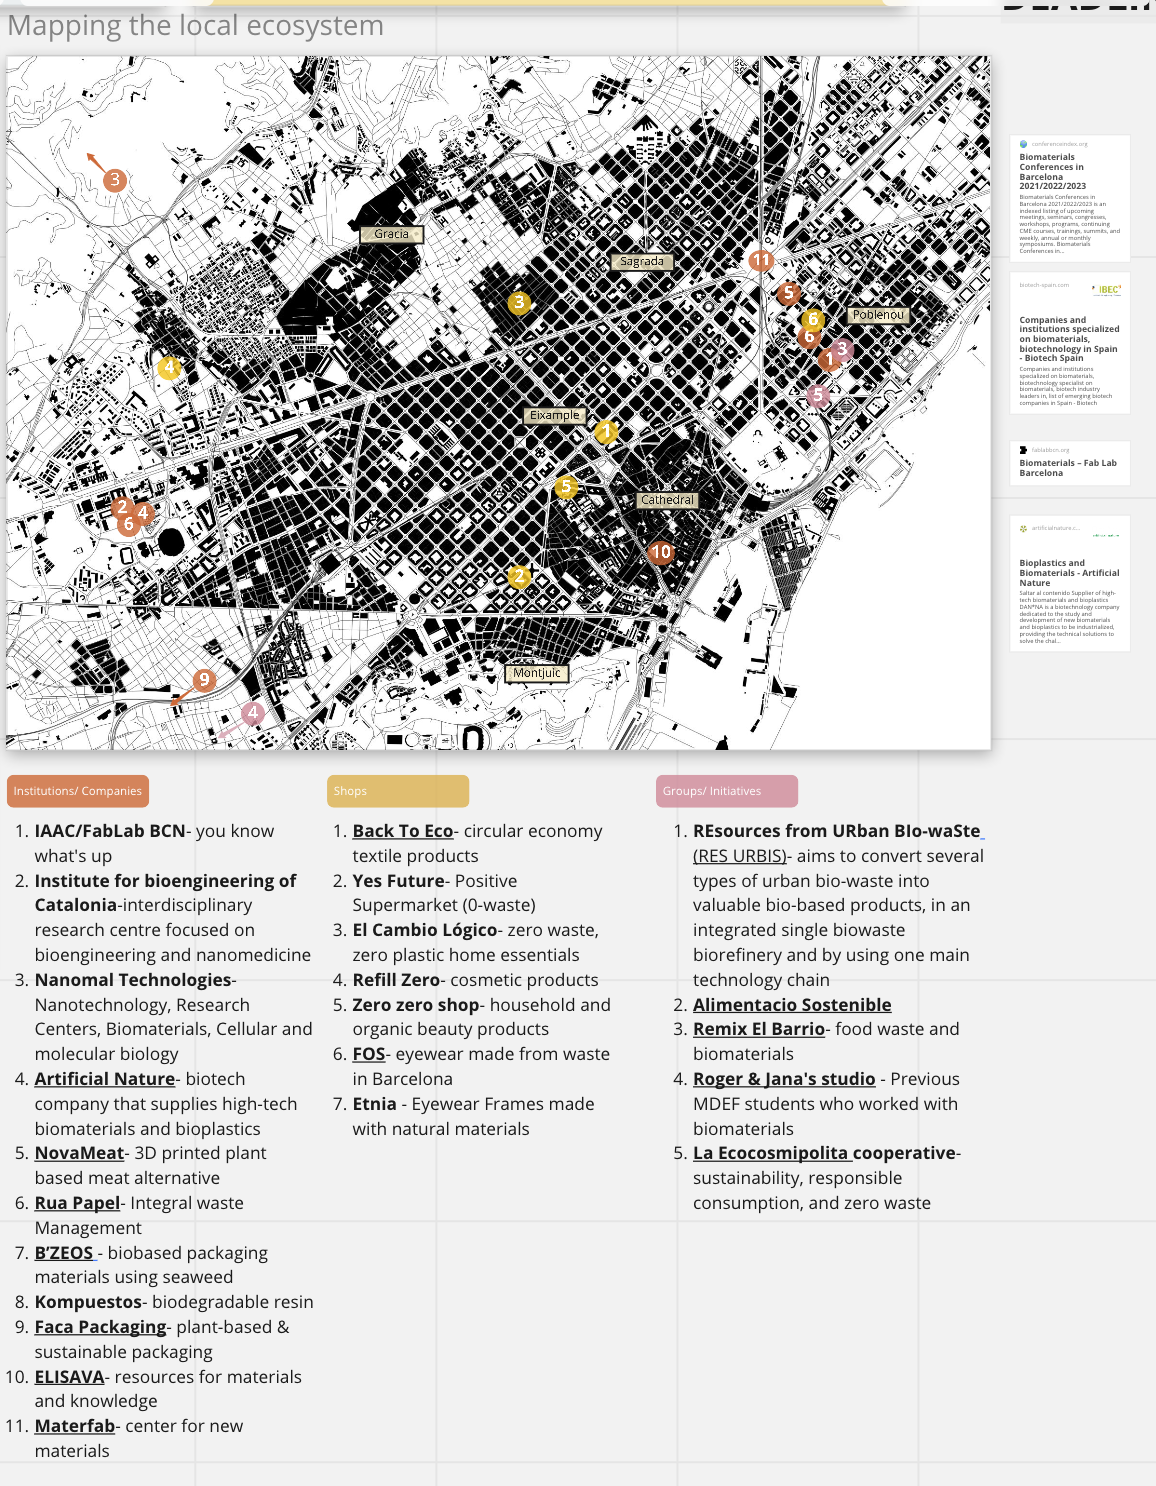
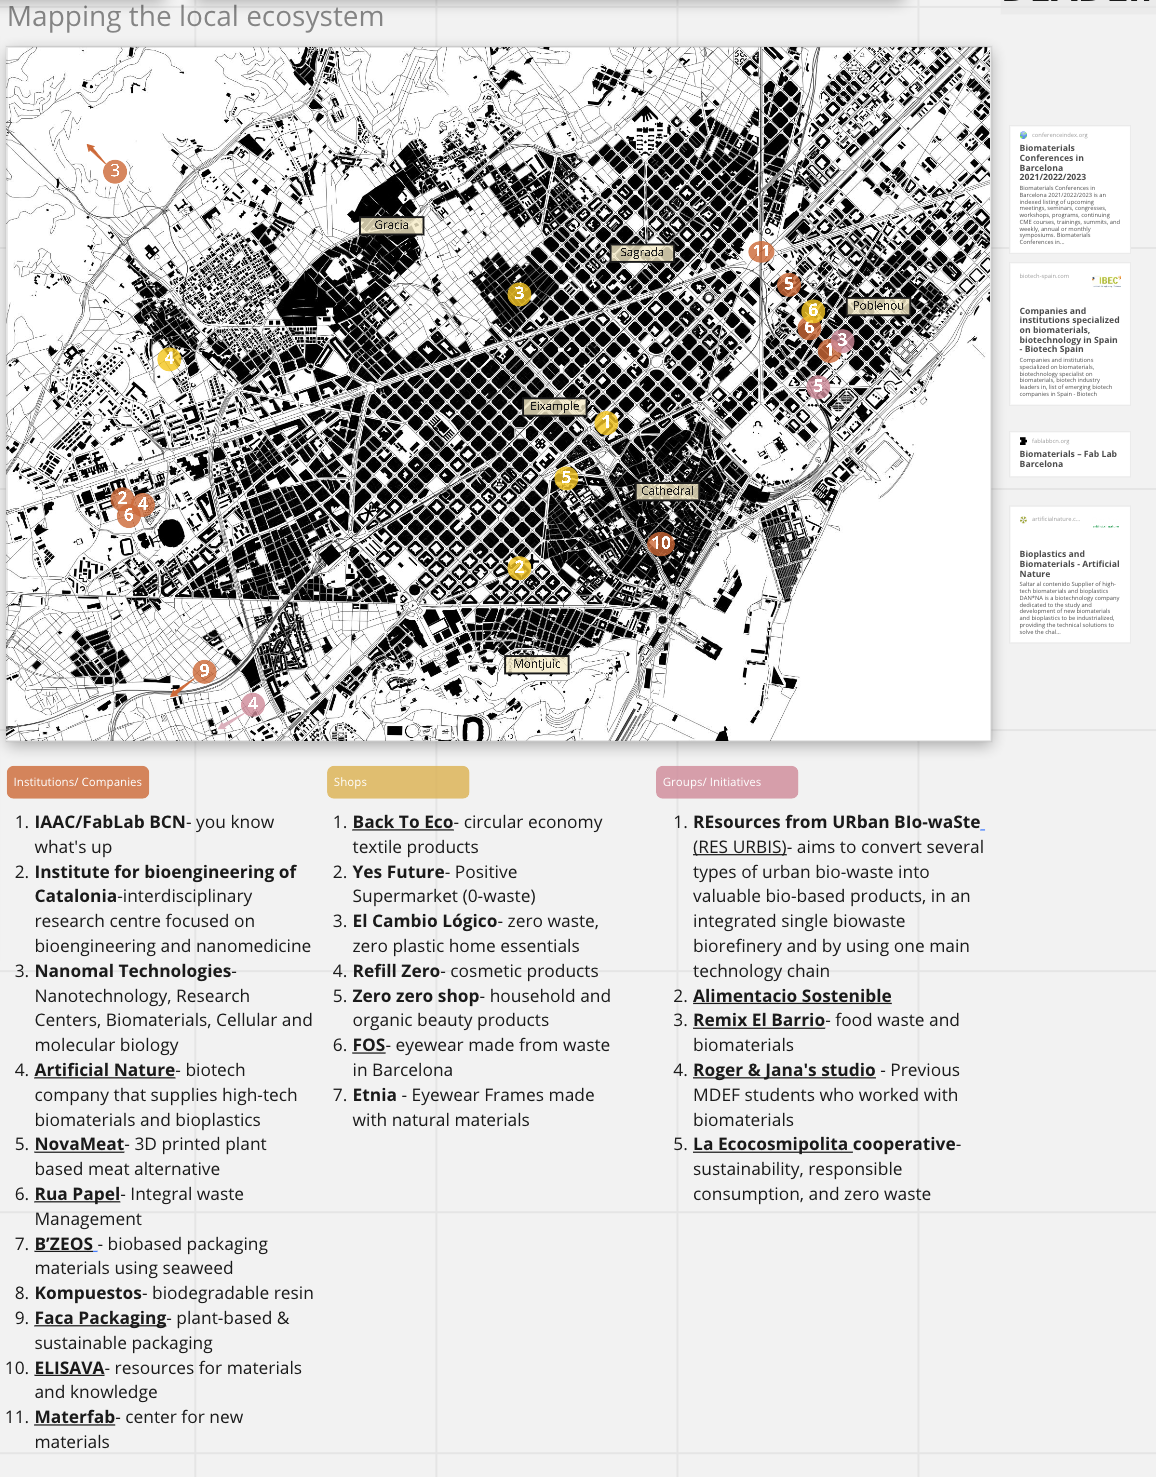
week 7

Changed region(s): [[0.0, 0.0, 0.9654, 0.9655], [0.872, 0.3737, 0.9654, 0.436]]

diff --git a/weekly_reflections/week7.html b/weekly_reflections/week7.html
@@ -32,18 +32,134 @@
 
 <body>
     <h3>WEEK 7</h3>
+    <p>Community Engagement</p>
+
+<div class="grid">
+  <div class="title">
+    <h6>
+    This week, we were introduced to two professors who form a collective called Holon, focused on transition design. We discussed the importance of shifting our perspectives as designers from people who try to solve issues as fast as possible to people who try to understand issues as best as possible. This shift in mindset was revolutionary to me, because it highlighted how just because we may try to solve a problem, it might not mean we can solve it properly.
+
+<br></br>
+
+    We talked about different theories of change, and layers on which we can act: the iceberg model highlights these layers which vary in depth, from events, to patterns, to underlying structures and mental models. The deeper we go, the bigger influence we can make, but also the more complex and interconnected the issues are.
+
+<br></br>
+
+    Before beginning this course, we had been told to divide in groups and design an intervention with a time limit of just a few weeks. This definitely shaped our mindset towards the course contents, and maybe occasionally we got ahead of ourselves.
+<br></br>
+
+    My group consists of me, Pippa & Marina, and we are naming our design intervention <i>A Case For Waste</i>. Our fight can be summed up as “Tackling the problem of individual waste.” We choose to approach the topic from a biomaterial and creative recycling perspective, by experimenting with the knowledge we are gaining in this field. We noticed that when it comes to the topic of waste, there are two conflicting approaches: do we want to work with new materials that can easily biodegrade, minimising the waste we produce? Or do we want to add value to existing waste material (such as plastic, aluminum or unsustainable mixed products) by recycling, upcycling or sustainably degrading it? We have defined these two categories as “New Materials” and “Existing Materials”, respectively.
+</h6>
+
+    <img src="../images/week7/conflict.png" alt="conflict" style="width:100%">
+      <figcaption>New materials versus Existing materials</figcaption>
+
+<h6>
+
+    Upon bouncing back and forth various ideas, we decided we wanted to host a workshop on biomaterials in which we would invite participants to create sculptures and objects with new materials, using old materials to mold them. This way, they can both generate new, more sustainable objects, whilst repurposing their old, previously valueless objects.
+
+<br></br>
+
+    Although we already had all these ideas, we had to take a few steps back and understand the frameworks surrounding the topic of biomaterials. We were asked to look at the bigger picture of our topics. We engaged in various exercises, such as mapping the local ecosystem, understanding our personal “iceberg”, coming up with ideas within our topic but beyond our reach, and positioning ourselves within this specific context.
+
+<br></br>
+
+    So, instead of jumping head first into our problem-solving, we created a collaborative <a href="https://miro.com/welcomeonboard/ZFJKSXdxR0VZckVwZ2VaQVpjT2tTMmtodWNjYVZNSW1WWUZhTXhVcWxjSFZWSlQ4V2FwVTY2M3hLRjI1aFRDdHwzMDc0NDU3MzY1NzI5MDM3MTk3?invite_link_id=398537006066" target="_blank">Miro board</a> in which we worked on the various exercises and assignments. Below you will find almost all of them, and by clicking on the link you will have access to the complete board.
 
 
-<paragraph>
-<p> <br>There's nothing here yet! Come back in a few weeks.
-</br>
-<br>
-</br>
-<br>
-</br>
-<br>
-</br>
- </p2>
+</h6>
+
+<img src="../images/week7/board_overview.png" alt="board overview" style="width:100%">
+<figcaption>An overview of our Miro </figcaption>
+
+
+<br></br>
+<img src="../images/week7/iceberg.png" alt="iceberg diagram" style="width:100%">
+<figcaption>The iceberg model for biomaterials</figcaption>
+
+<h6>
+
+</div>
+
+<div class="sidebar">
+<h6>
+  An overview of institutions, shops, groups and initiatives around Barcelona who work with biomaterials.
+<br></br>
+  By mapping out the local ecosystem, we managed to form a  web of resources and people we could talk to or collaborate with in future projects. It also allowed us to understand the field better, and the context, limits and design opportunities regarding each entity.
+<br></br>
+  By understanding all of this, it made it easier for ourselves to be positioned within the Biomaterial community and figure out exactly what we could do to make an impact.
+
+</div>
+
+<div class="content">
+<img src="../images/week7/map.png" alt="map" style="width:100%">
+<img src="../images/week7/map_index.png" alt="map index" style="width:100%">
+</div>
+
+</div>
+
+
+
+
+
+
+<div class="grid">
+  <div class="title">
+
+  <h6>
+    We tried to put ourselves in the position of various entities and examine which ideas they may have for the future of biomaterials and plastic pollution.
+
+
+
+  </h6>
+
+      <img src="../images/week7/ideas_beyond_reach.png" alt="ideas beyond our reach" style="width:100%">
+        <figcaption>Ideas beyond our reach</figcaption>
+
+
+      <h6>
+      Once we worked on all of this, we concluded that it would be important for us to reach out to people already inside the field of biomaterials. We contacted some profs within IAAC and Elisava but won't be able to participate in meetings until next week. Until that moment arrives, we will continue with the idea of hosting a workshop, and probably remodel it around the new incites we will learn. This is the work we did when ideating our poster.
+
+    </h6>
+
+        <img src="../images/week7/poster_design.png" alt="poster design" style="width:100%">
+          <figcaption>Poster design process and notes</figcaption>
+
+
+
+    </div>
+
+
+      <div class="sidebar">
+
+        <img src="../images/week7/poster.png" alt="the final poster" style="width:100%">
+          <figcaption>The final poster</figcaption>
+
+
+          </div>
+
+          <div class="content">
+          <img src="../images/week7/notes.png" alt="map" style="width:100%">
+
+          </div>
+
+          </div>
+
+
+
+<div class="grid">
+    <div class="title">
+      <h6>
+      Regarding our future plans, we've set up a timeline of the upcoming weeks with deadlines and to-do lists for each of us. It will surely fill up as the days go by, but for now we know our general time frames and what to do by Monday.
+      <h6>
+
+      <img src="../images/week7/to_do.png" alt="things to do" style="width:100%">
+
+</div>
+
+
+</div>
+
 
  <br>
  <h3 class="right-alignment">

diff --git a/css_styles.css b/css_styles.css
@@ -17,6 +17,13 @@ h2 {
   line-height: 26px;
 }
 
+h6 {
+  font-family: 'Trispace', sans-serif;
+  font-size: 20px;
+  font-style: normal;
+  line-height: 26px;
+}
+
 h3 {
   font-family: 'Syne Mono', sans-serif;
   font-size: 40px;
